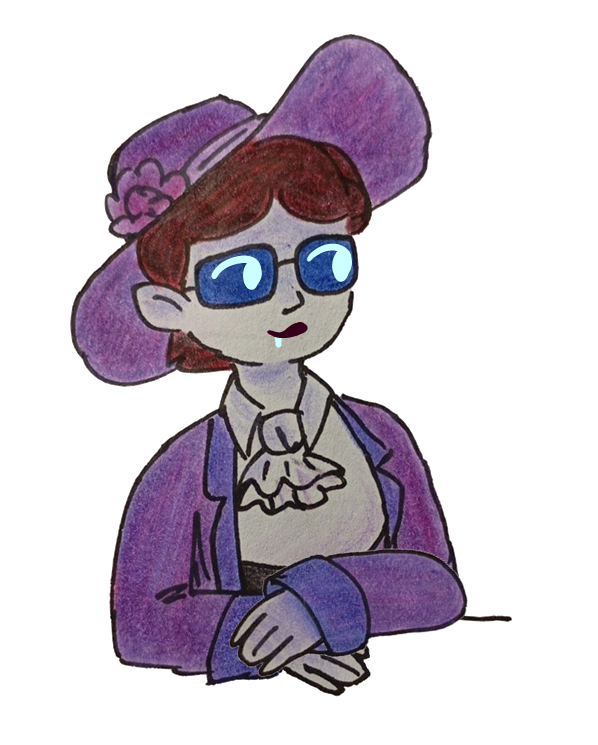
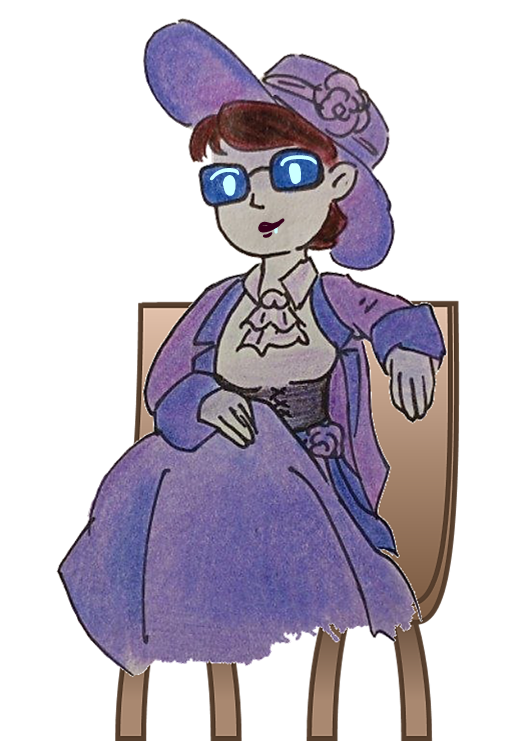
УРА ВРОДЕ ВСЁ ГОТОВО НИФИГА

diff --git a/engine/character.py b/engine/character.py
@@ -285,9 +285,10 @@ class ListCharacters:
             "unk1" : _Character("???", None, text_anch="center", colour="#f0c4c0"),
             "unk2" : _Character("???", None, text_anch="center", colour="#d5dbf0"),
             "shak" : _Character("Жаклин", "shak", "#f5a889", "#f0855b"),
+            "lshak" : _Character("Жаклин", "lshak", "#f5a889", "#f0855b"),
             "masorubka" : _Character("Кассир", "masorubka", "#E0FFFF", "#7FFFD4"),
             "ed" : _Character("Сосед", "ed", "#FFDEAD", "#FFDEAD"),
-            "oz": _Character("Ф. ОЗИНАД", "oz", "#12d3da", c_scale=1.3),
+            "oz": _Character("Ms. Ф. ОЗИНАД", "oz", "#12d3da", c_scale=1.5),
         }
 
     def __getitem__(self, item) -> dict[str : Character]:
